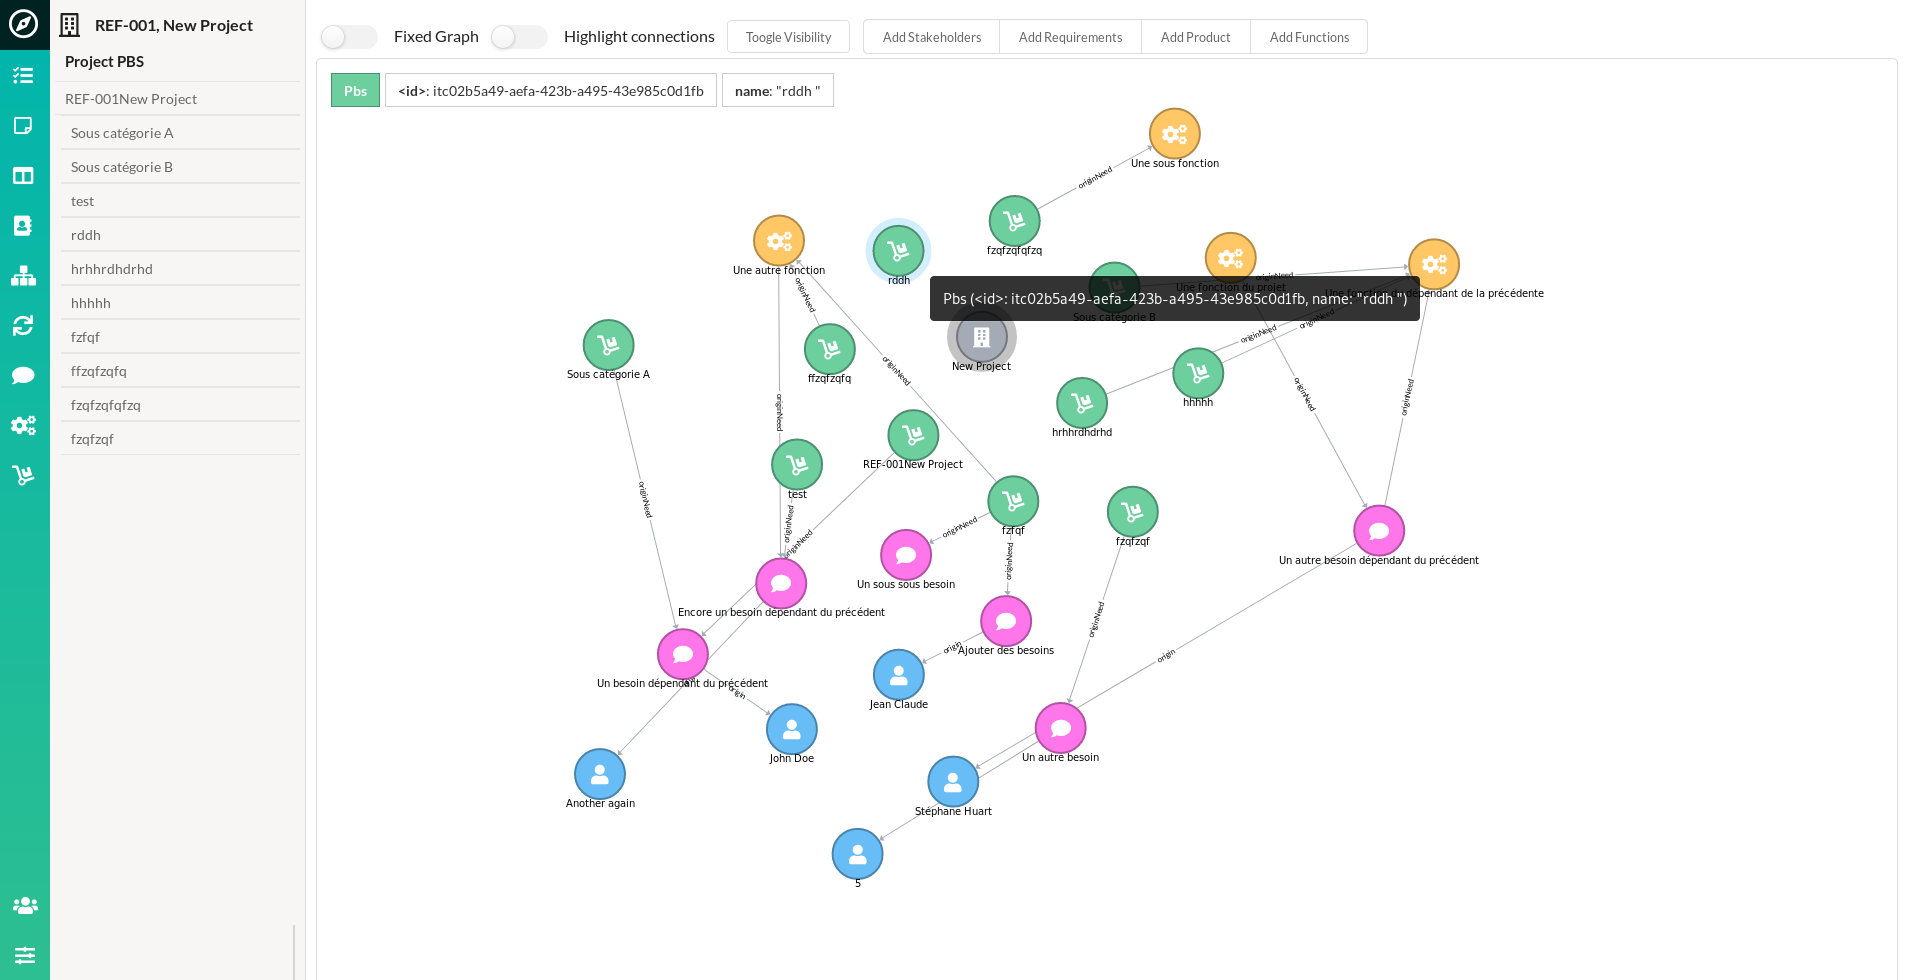
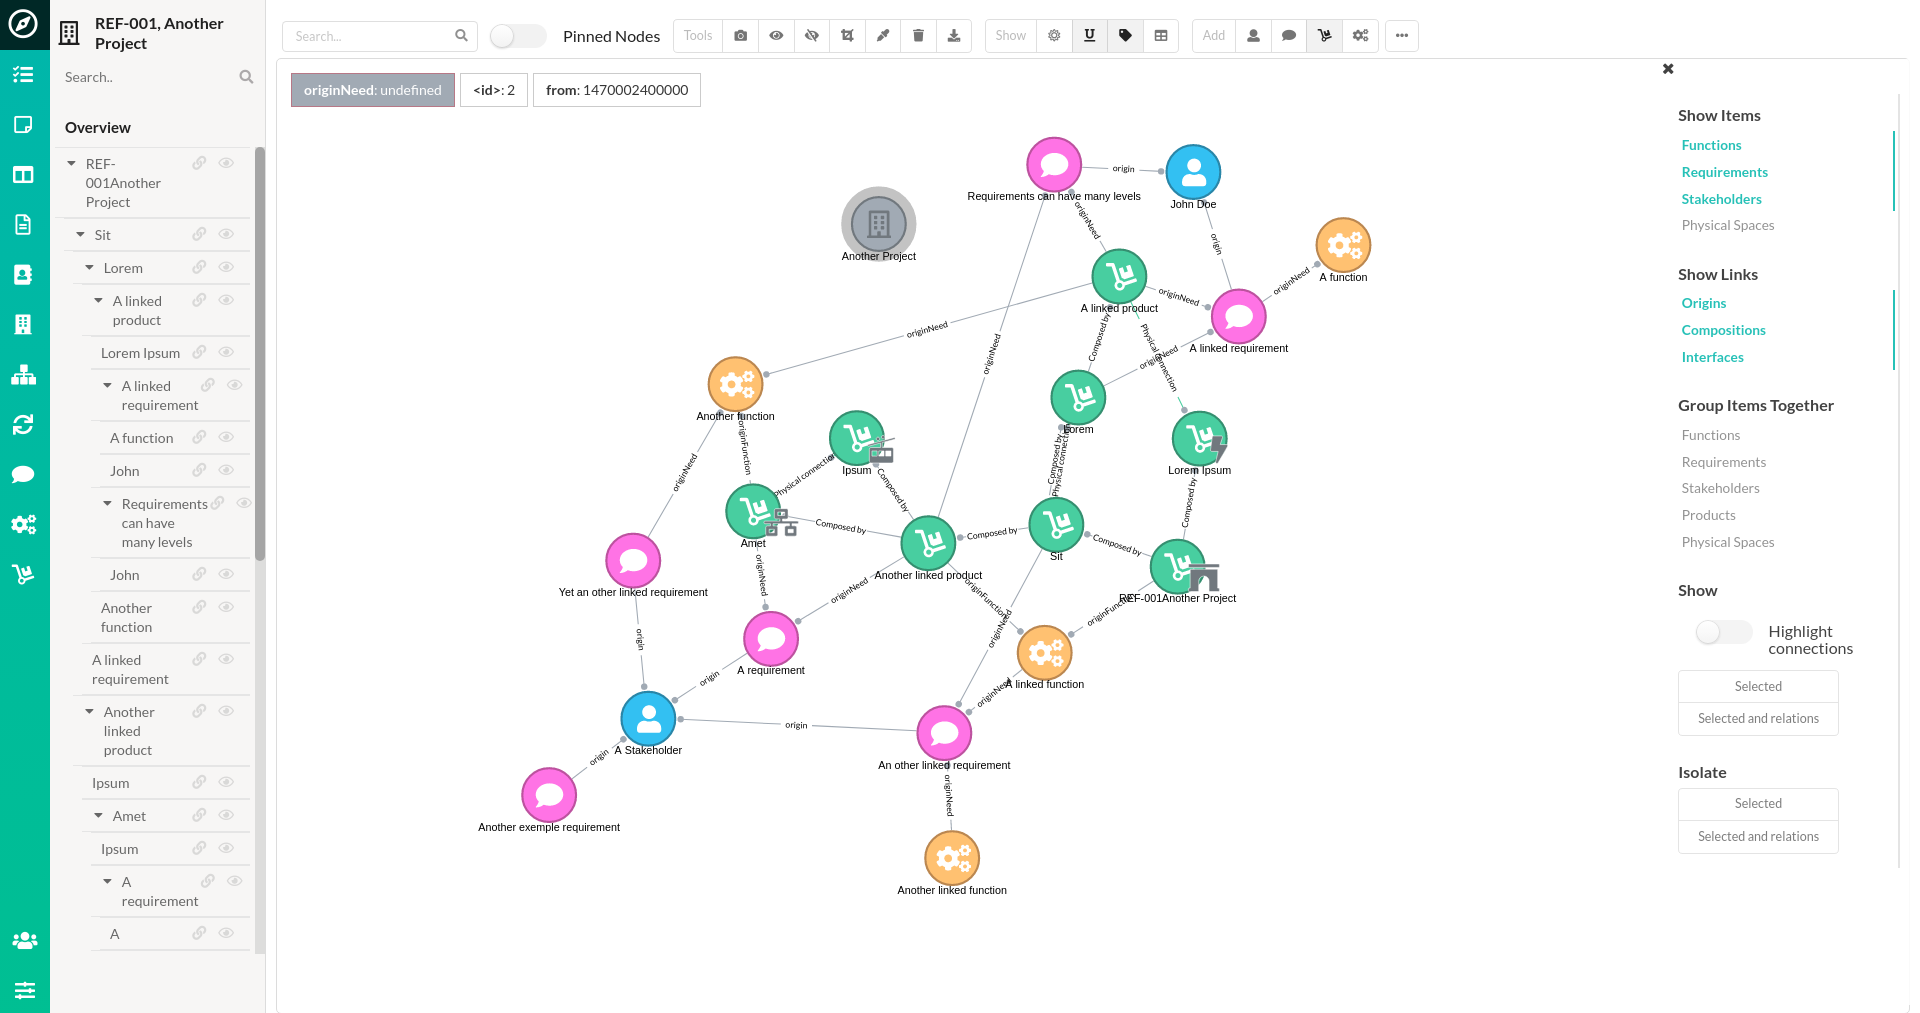
update readme and images with new UX

diff --git a/README.md b/README.md
@@ -13,11 +13,13 @@ System Engineering and requirements management application
 -   Build the project breakdown structure
 -   Generate overview diagrams, ERD and mindmaps from the project relations
 -   Produce text specifications based on your model
+-   Create interfaces matrix from specific part of your project
 
 ![Lists](./images/ephemeris_lists.png)
 ![ERD](./images/ephemeris_erd.png)
 ![Meetings](./images/ephemeris_meetings.png)
 ![Meetings](./images/ephemeris_mm.png)
+![Interfaces](./images/ephemeris_interfaces.png)
 
 ## Getting Started
 
